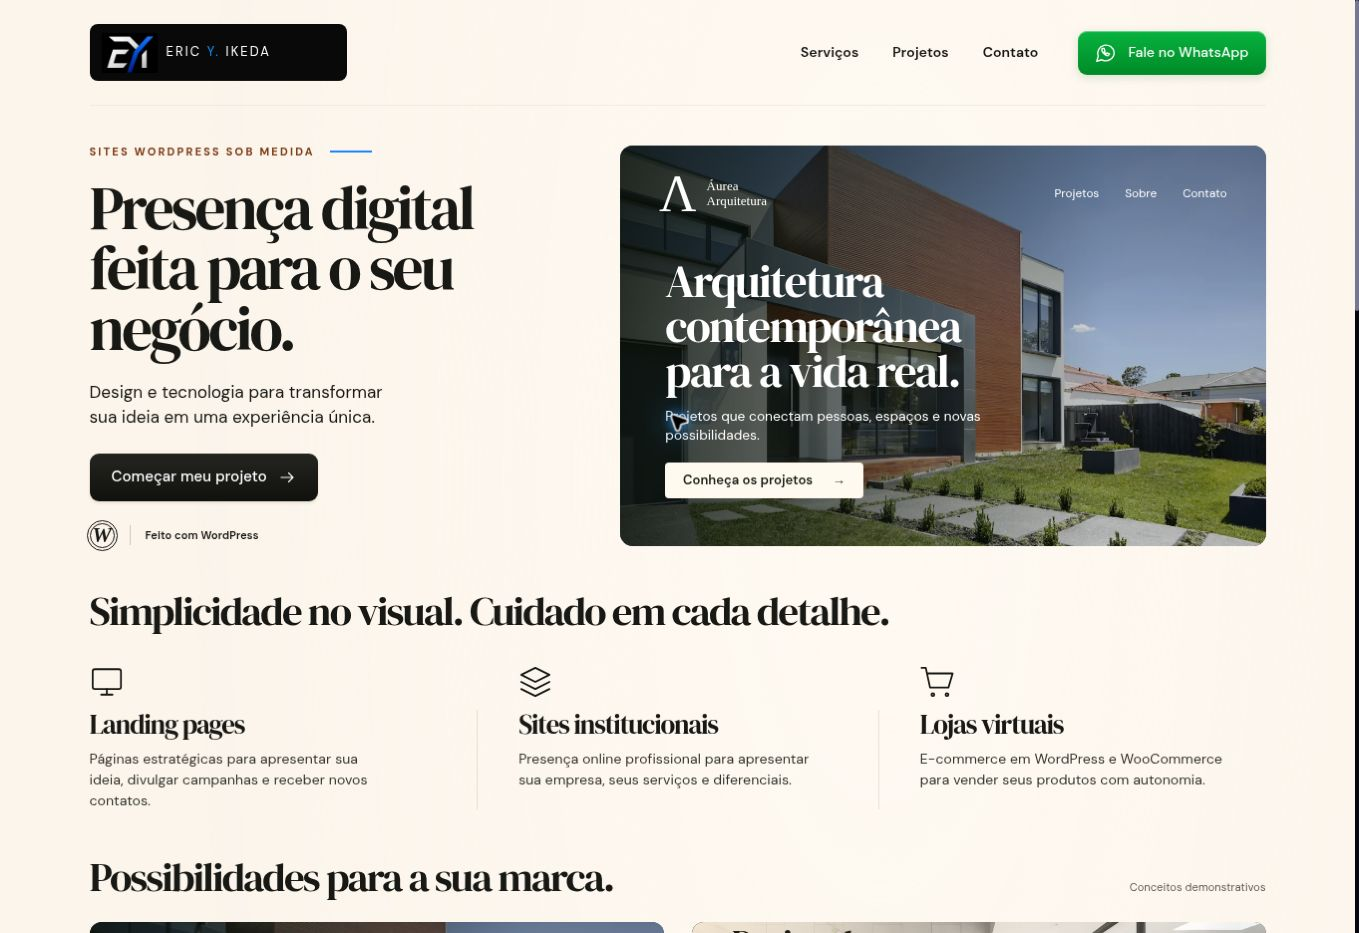
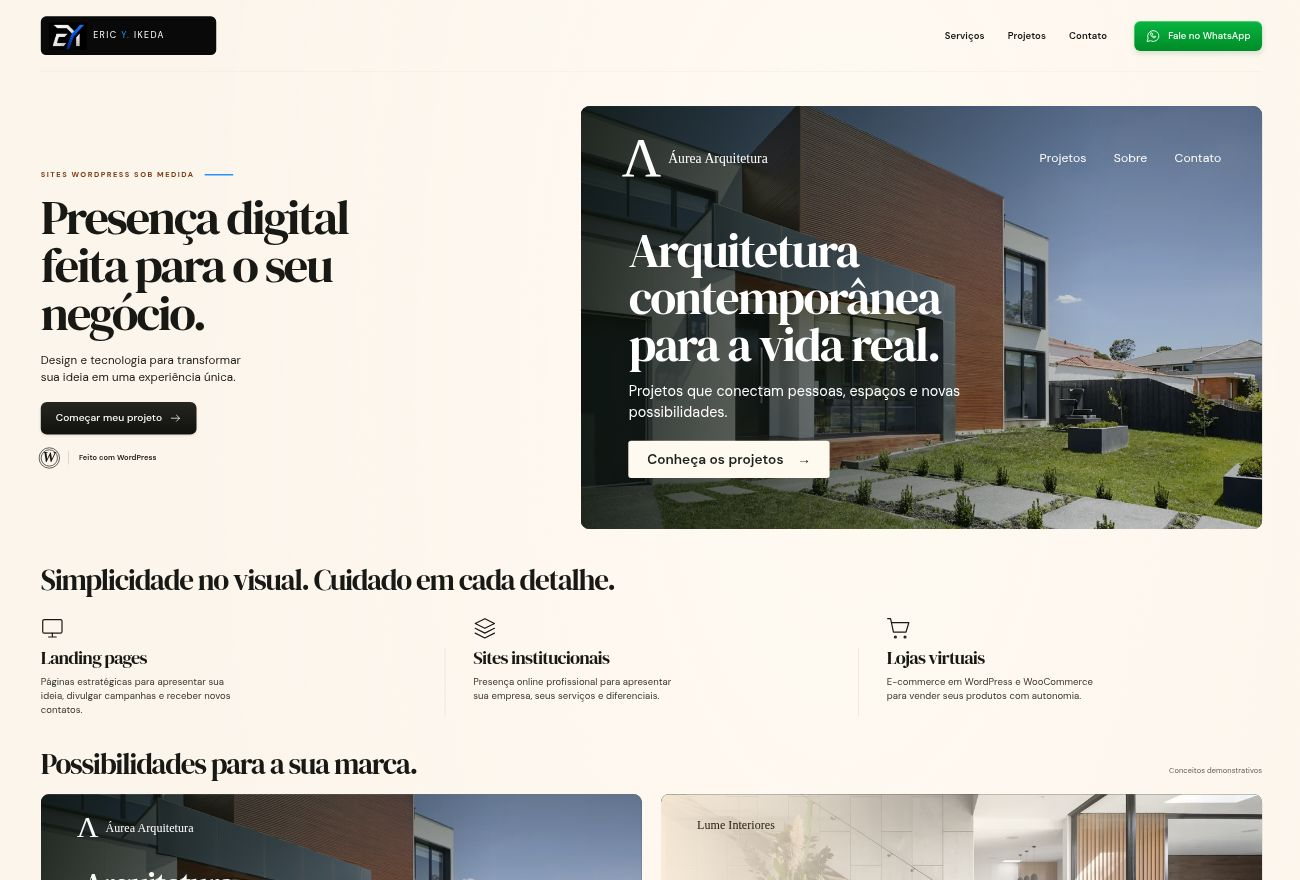
style: expand shop content across desktop screens

diff --git a/src/shop.css b/src/shop.css
@@ -8,7 +8,7 @@
 .shop-page button,.shop-page a,.shop-page summary{-webkit-tap-highlight-color:transparent}
 .shop-page :focus-visible{outline:3px solid var(--shop-blue);outline-offset:5px}
 .shop-page ::selection{background:#d4e8fc;color:#171916}
-.shop-wrap{width:min(1180px,calc(100% - 88px));margin-inline:auto}
+.shop-wrap{width:min(1800px,calc(100% - clamp(56px,6.25vw,120px)));margin-inline:auto}
 .shop-page section[id]{scroll-margin-top:30px}
 .shop-header{display:flex;align-items:center;gap:40px;padding-block:24px;border-bottom:1px solid #d8cfc14d}
 .shop-brand{margin-right:auto;display:flex;width:258px;background:#080908;border-radius:8px;overflow:hidden;padding:7px 12px}
@@ -140,7 +140,7 @@
 to{opacity:1;transform:translateY(0)}
 }
 
-@media(min-width:1500px){.shop-wrap{width:min(1260px,calc(100% - 110px))}
+@media(min-width:1500px){
 .shop-hero{padding-block:50px}
 .shop-hero h1{font-size:72px}
 }
@@ -266,3 +266,8 @@ to{opacity:1;transform:translateY(0)}
 
 
 @media(prefers-reduced-motion:reduce){html:has(.shop-page){scroll-behavior:auto}}
+/* Keep concept titles clear of their miniature navigation on wide screens. */
+.shop-project .shop-aurea-mark{font-size:5cqw}
+.shop-project .shop-preview-copy{bottom:10%}
+.shop-project .shop-preview-copy h3{font-size:5.2cqw!important;max-width:70%}
+.shop-project .shop-preview-copy p{display:none}
